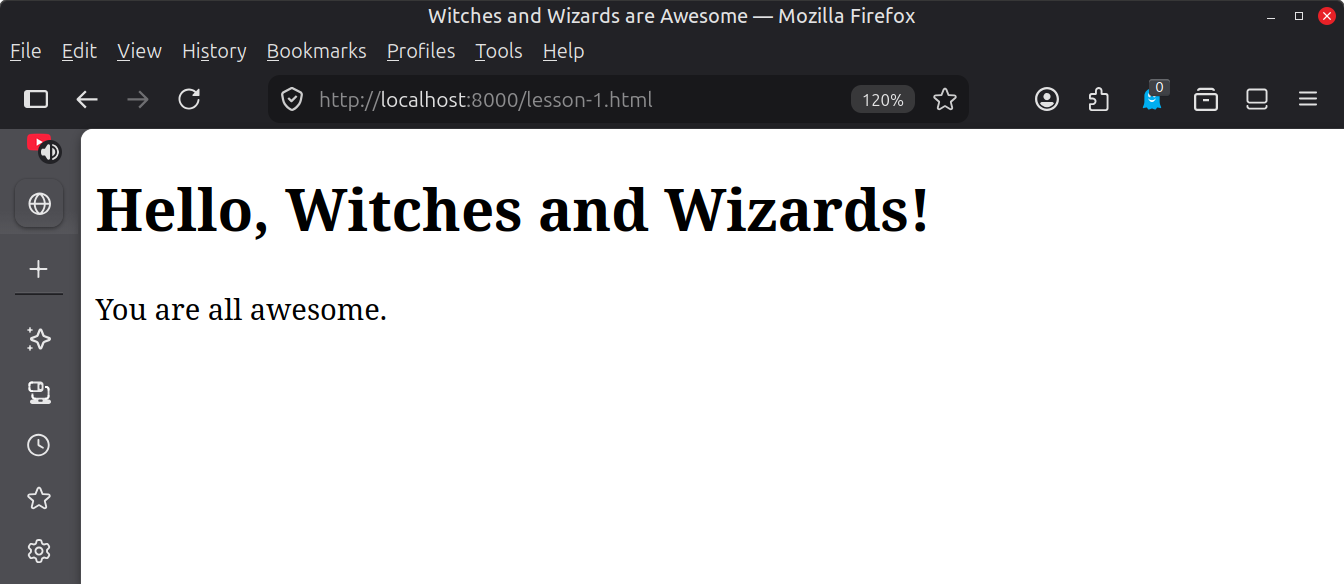
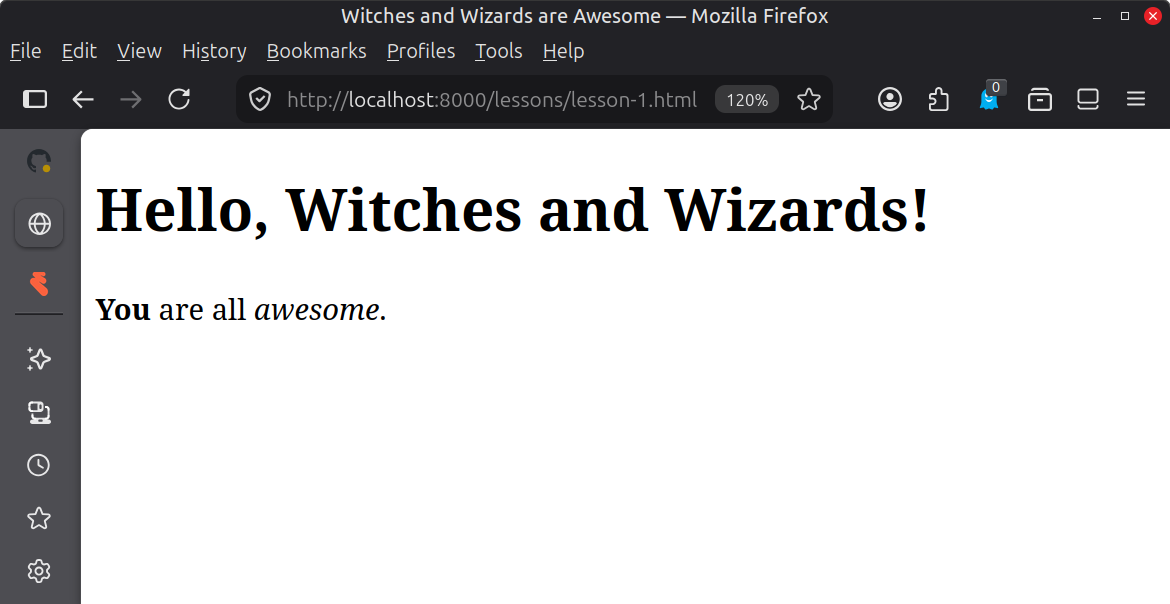
feat: enhance lesson content by adding emphasis to key phrases in HTML

Changed region(s): [[0.0, 0.1233, 1.0, 1.0], [0.0, 0.0, 0.7077, 0.1233], [0.9538, 0.0, 1.0, 0.0616]]

diff --git a/students/lesson-01.html b/students/lesson-01.html
@@ -191,7 +191,7 @@
 </head>
 <body>
     <h1>Hello, Witches and Wizards!</h1>
-    <p>You are all awesome.</p>
+    <p><strong>You</strong> are all <em>awesome</em>.</p>
 </body>
 </html></script>
                         <div class="code-snippet-table"></div>
@@ -215,7 +215,7 @@
                     <li>Lines 3-7: <code>&lt;head&gt;</code> section: This section contains information about the document that is not displayed by the browser but helps the browser process the document correctly. This includes the character encoding, viewport settings for responsive design, and the title of the page that appears in the browser tab. For now you can treat this section as part of the incantation you need to get the page to display correctly. In later lessons you will add more to this section to load style sheets and javascript programs. The <code>&lt;/head&gt;</code> tag closes this section. </li>
                     <li>Lines 8-11: <code>&lt;body&gt;</code> section: This section contains the actual content of the web page that is displayed in the browser. Everything you want to show on the page goes inside the <code>&lt;body&gt;</code> tags. The <code>&lt;/body&gt;</code> tag closes this section.</li>
                     <li>Line 9: <code>&lt;h1&gt;Hello, Witches and Wizards!&lt;/h1&gt;</code>: This line creates a heading. The <code>&lt;h1&gt;</code> tag defines a top-level heading, which is usually the largest and most important heading on the page. The text between the opening and closing tags is what will be displayed as the heading.</li>
-                    <li>Line 10: <code>&lt;p&gt;You are all awesome.&lt;/p&gt;</code>: This line creates a paragraph. The <code>&lt;p&gt;</code> tag defines a paragraph of text. Similar to the heading, the text between the opening and closing tags is what will be displayed as the paragraph content.</li>
+                    <li>Line 10: <code>&lt;p&gt;&lt;strong&gt;You&lt;/strong&gt; are all &lt;em&gt;awesome&lt;/em&gt;.&lt;/p&gt;</code>: This line creates a paragraph. The <code>&lt;p&gt;</code> tag defines a paragraph of text. Similar to the heading, the text between the opening and closing tags is what will be displayed as the paragraph content. The <code>&lt;strong&gt;</code> tag makes the text between the start and end tags bold, and the <code>&lt;em&gt;</code> tag makes the text italic.</li>
                 </ul>
             </div>
         </section>

diff --git a/lessons/lesson-1.html b/lessons/lesson-1.html
@@ -7,6 +7,6 @@
 </head>
 <body>
     <h1>Hello, Witches and Wizards!</h1>
-    <p>You are all awesome.</p>
+    <p><strong>You</strong> are all <em>awesome</em>.</p>
 </body>
 </html>
